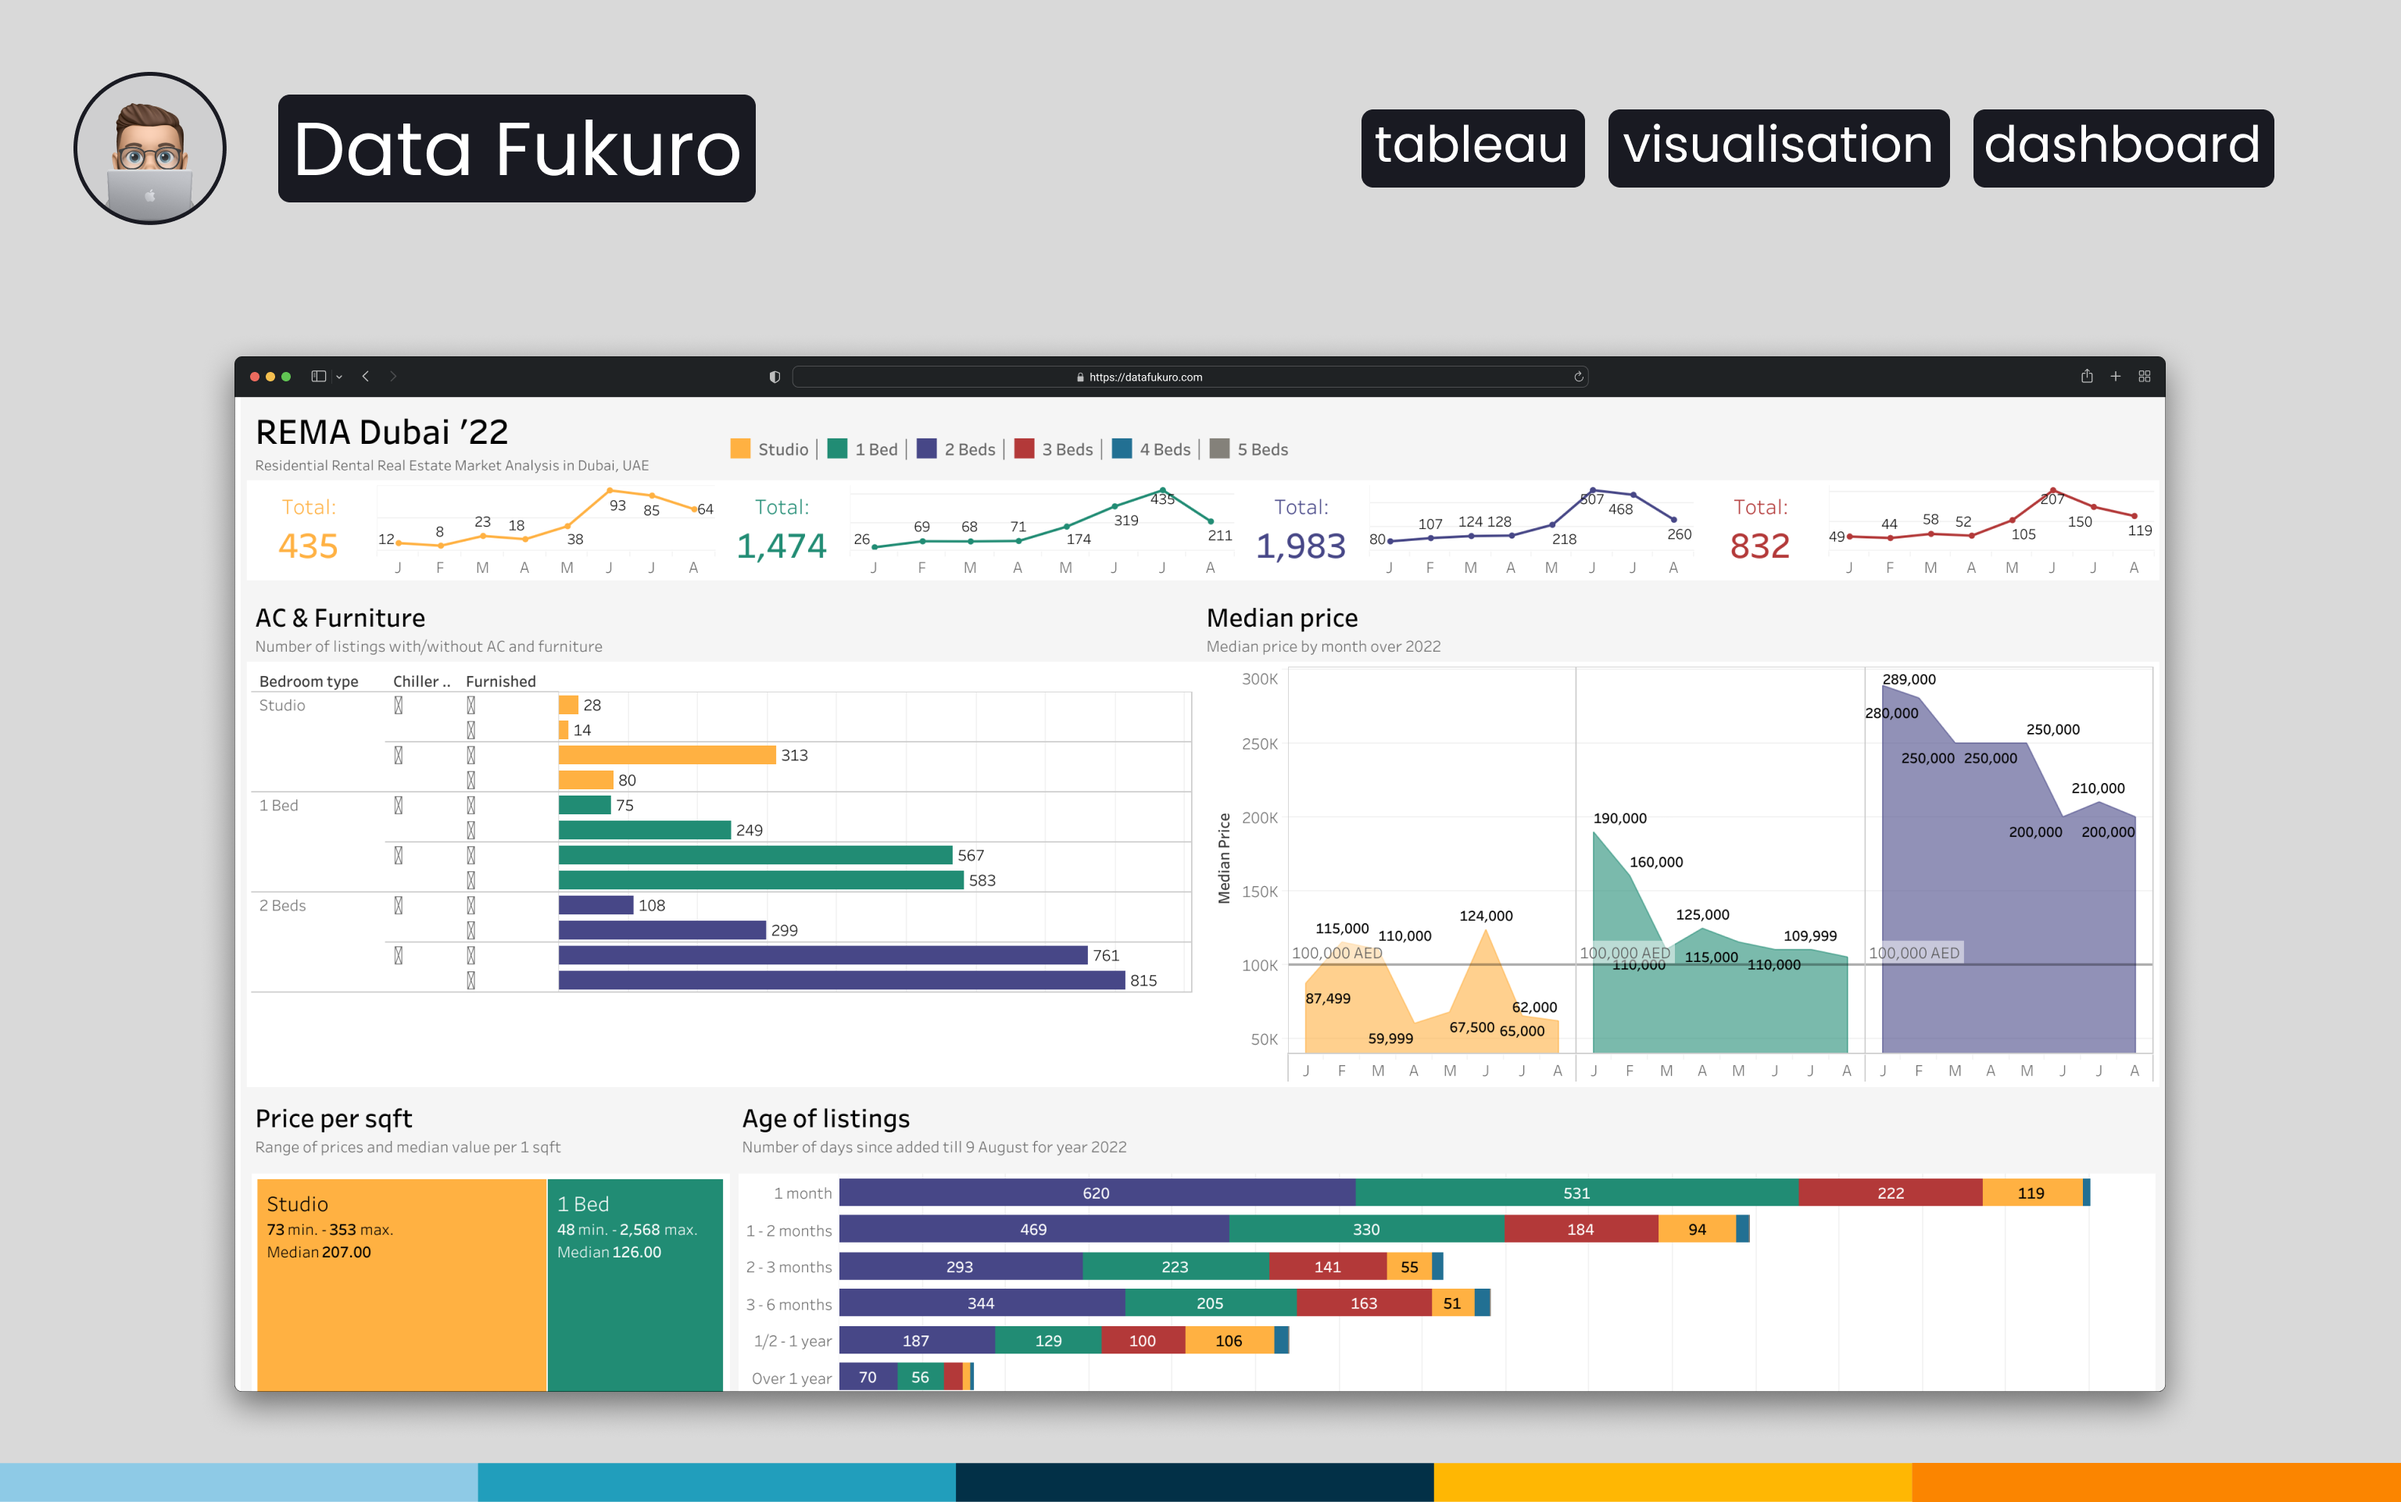
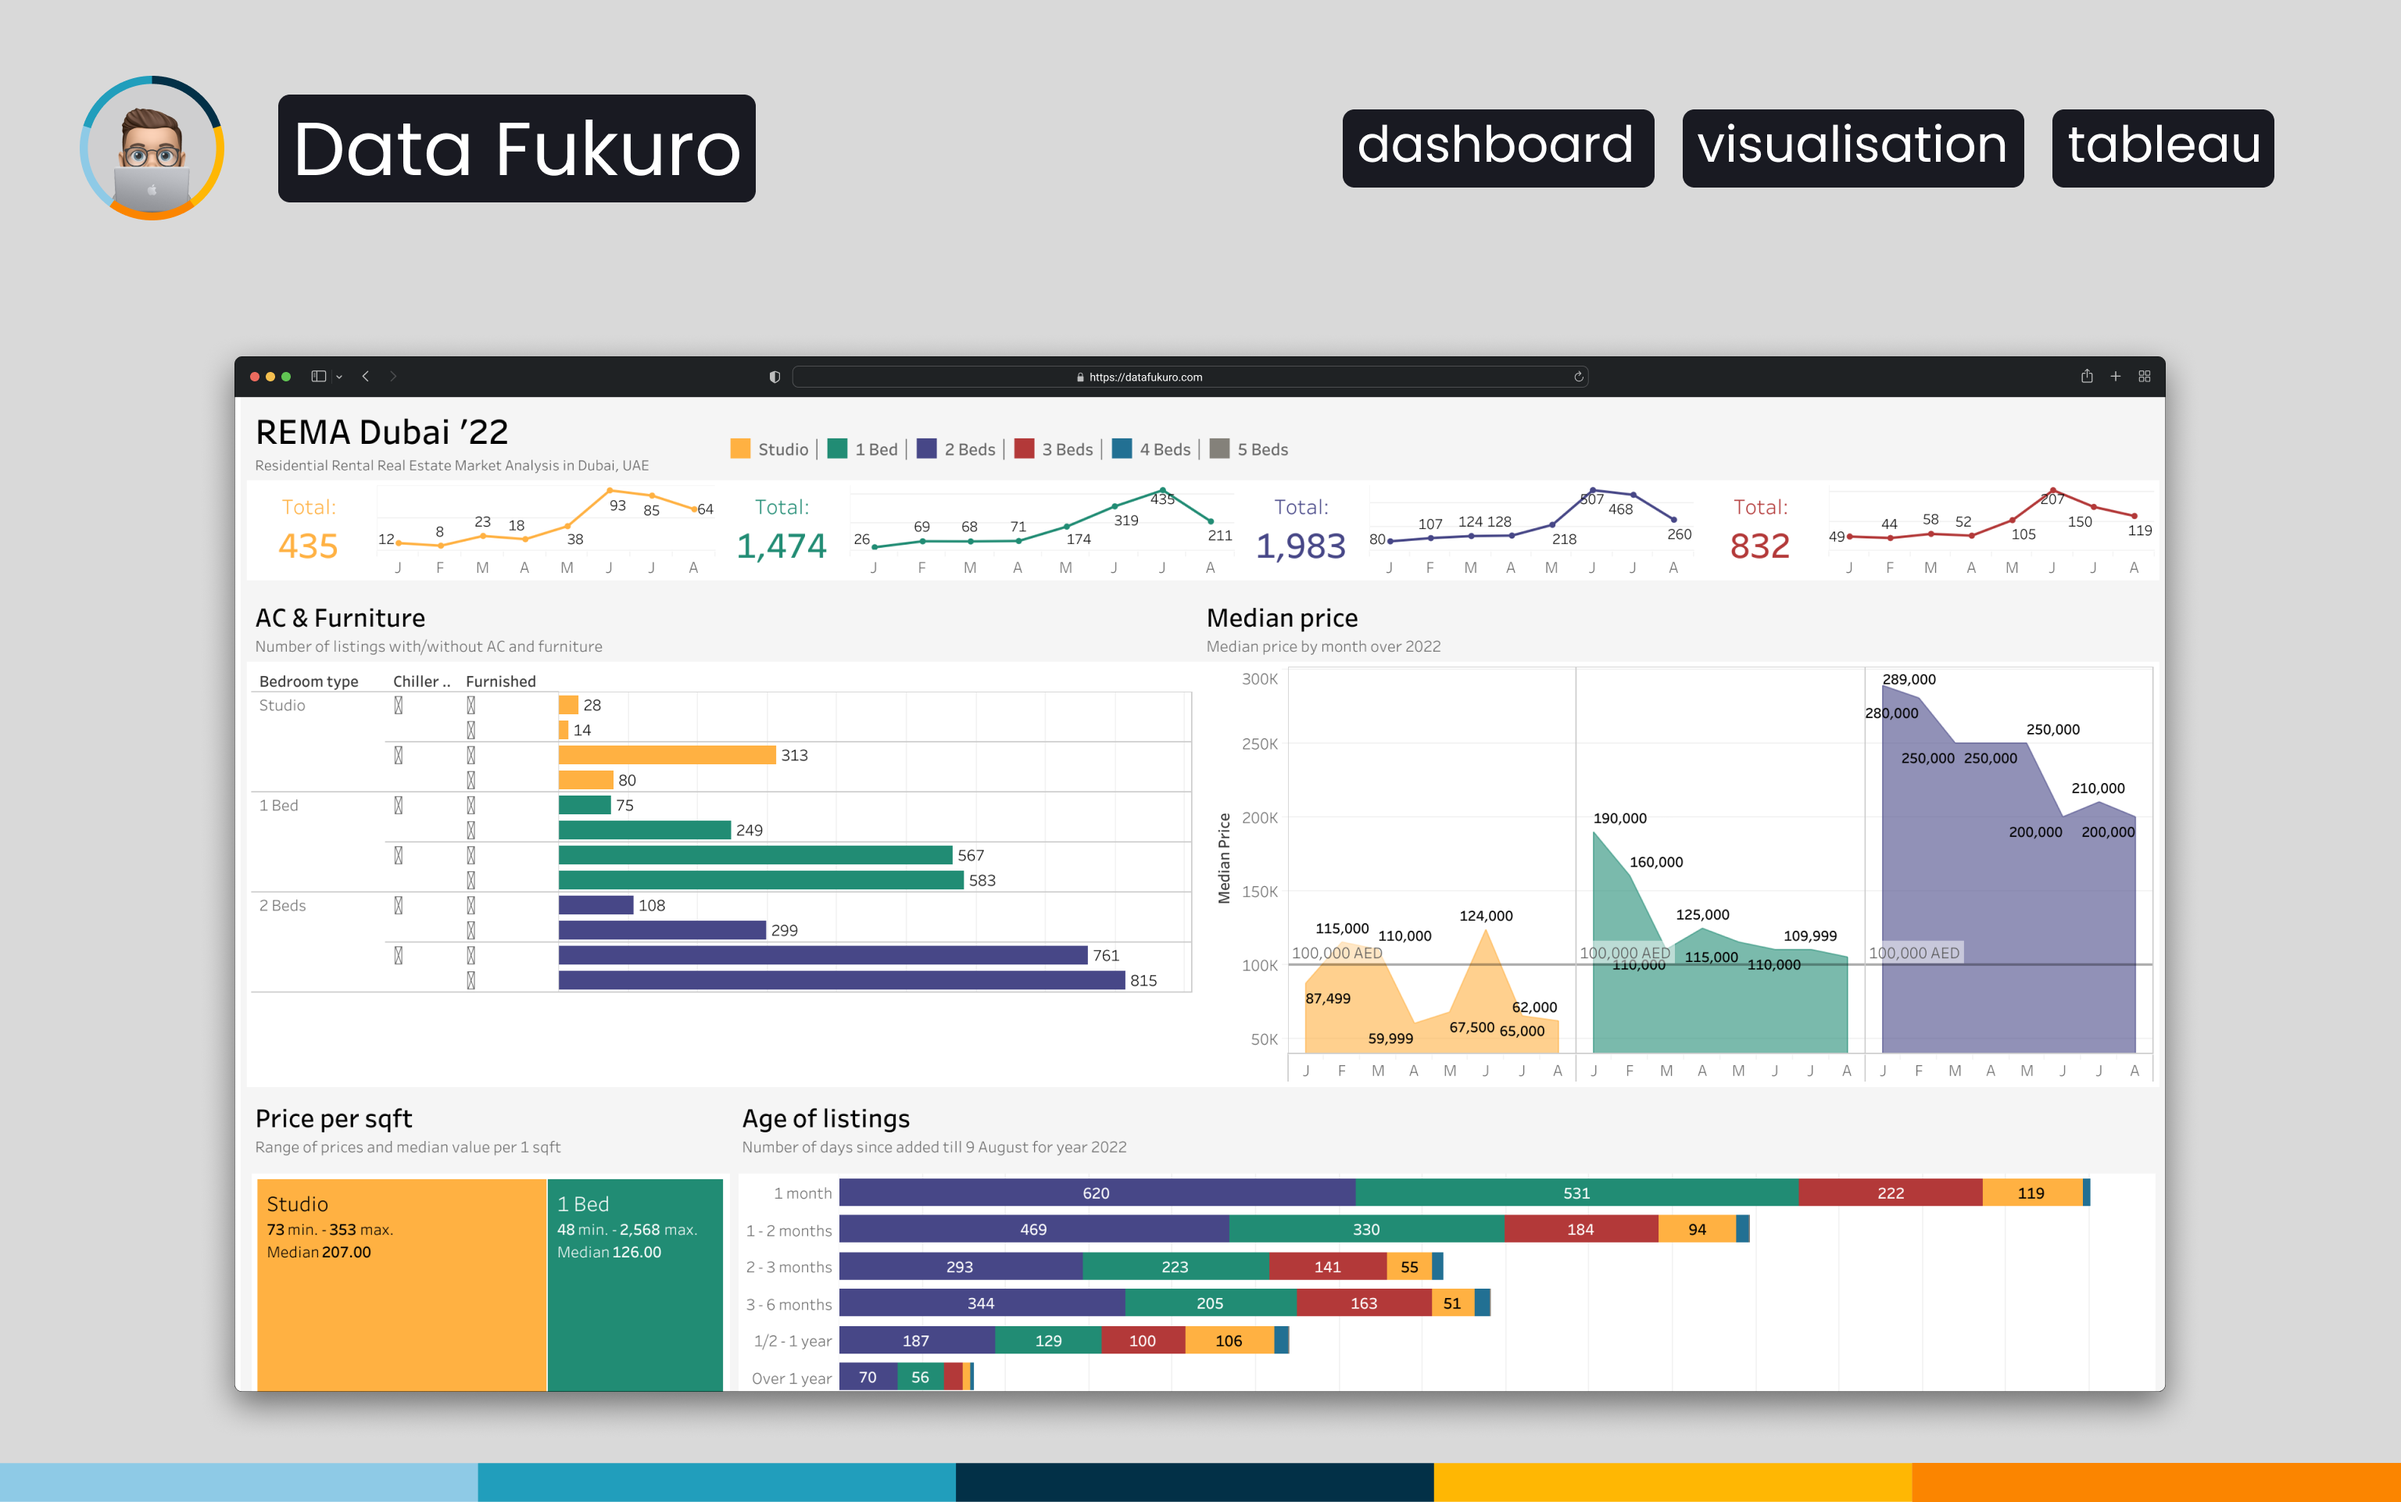
Create .gitignore

Changed region(s): [[0.5625, 0.0624, 0.9375, 0.1249], [0.0312, 0.0312, 0.0938, 0.1561]]

diff --git a/index.html b/index.html
@@ -73,8 +73,8 @@
                 <div class="sidebar-info">
                     <p class="text-centre ">
                         <i class="bi bi-geo-alt"></i> Dubai, United Arab Emirates <br>
-                        <i class="bi bi-linkedin"></i> <a href="#" alt="LinkedIn">LinkedIn</a>
-                        <i class="bi bi-dot"></i> <i class="bi bi-telegram"></i> <a href="#" alt="Telegram">Telegram</a>
+                        <i class="bi bi-linkedin"></i> <a href="https://www.linkedin.com/in/eugene--popov/" alt="LinkedIn" target="_blank" rel="noopener">LinkedIn</a>
+                        <i class="bi bi-dot"></i> <i class="bi bi-telegram"></i> <a href="https://t.me/datafukuro" alt="Telegram" target="_blank" rel="noopener">Telegram</a>
                         <i class="bi bi-dot"></i> <i class="bi bi-envelope-at"></i> <a href="#" alt="Email">Email</a>
                     </p>
 

diff --git a/css/style.css b/css/style.css
@@ -107,9 +107,9 @@ a:focus {
     height: 50px;
     object-fit: cover;
     margin-bottom: 10px;
-    border: 3px solid #fff;
+    border: 1px solid #fff;
     border-radius: 50%;
-    background: #e7e7e7;
+    /* background: #e7e7e7; */
 }
 
 #sidebar {
